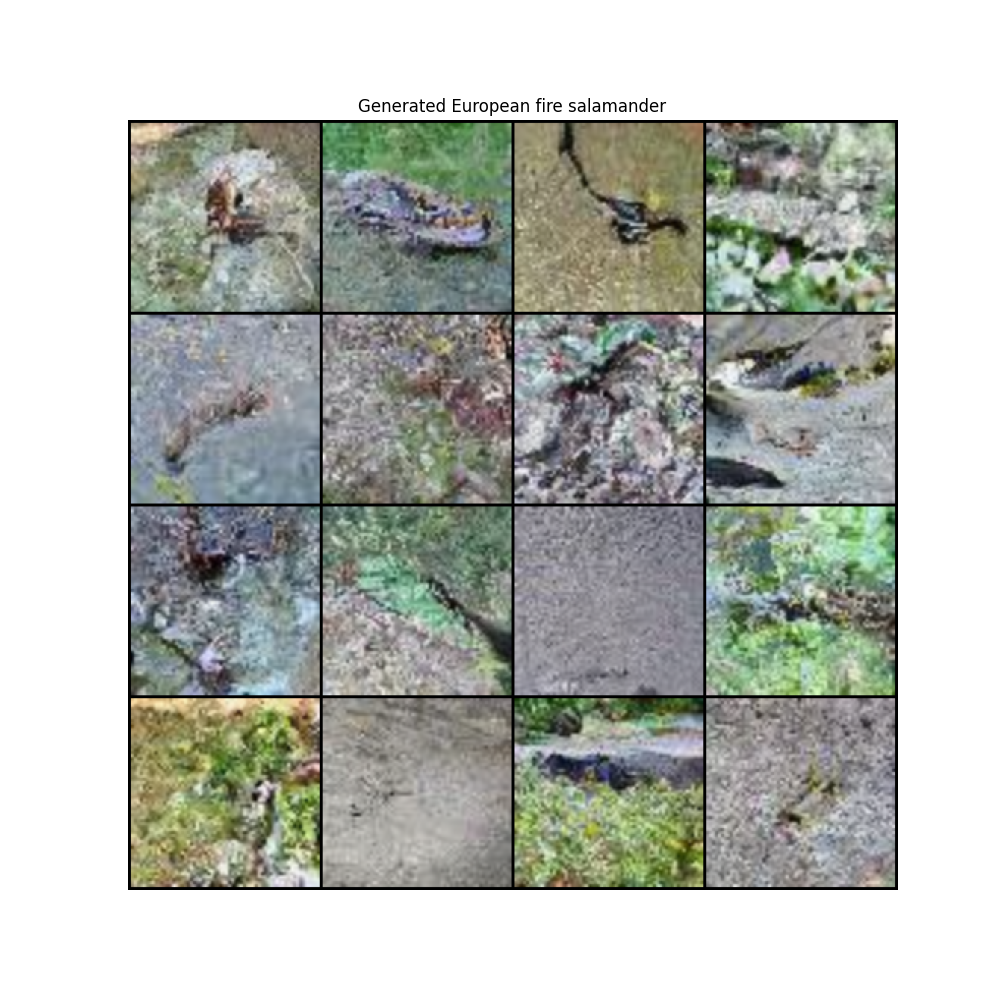
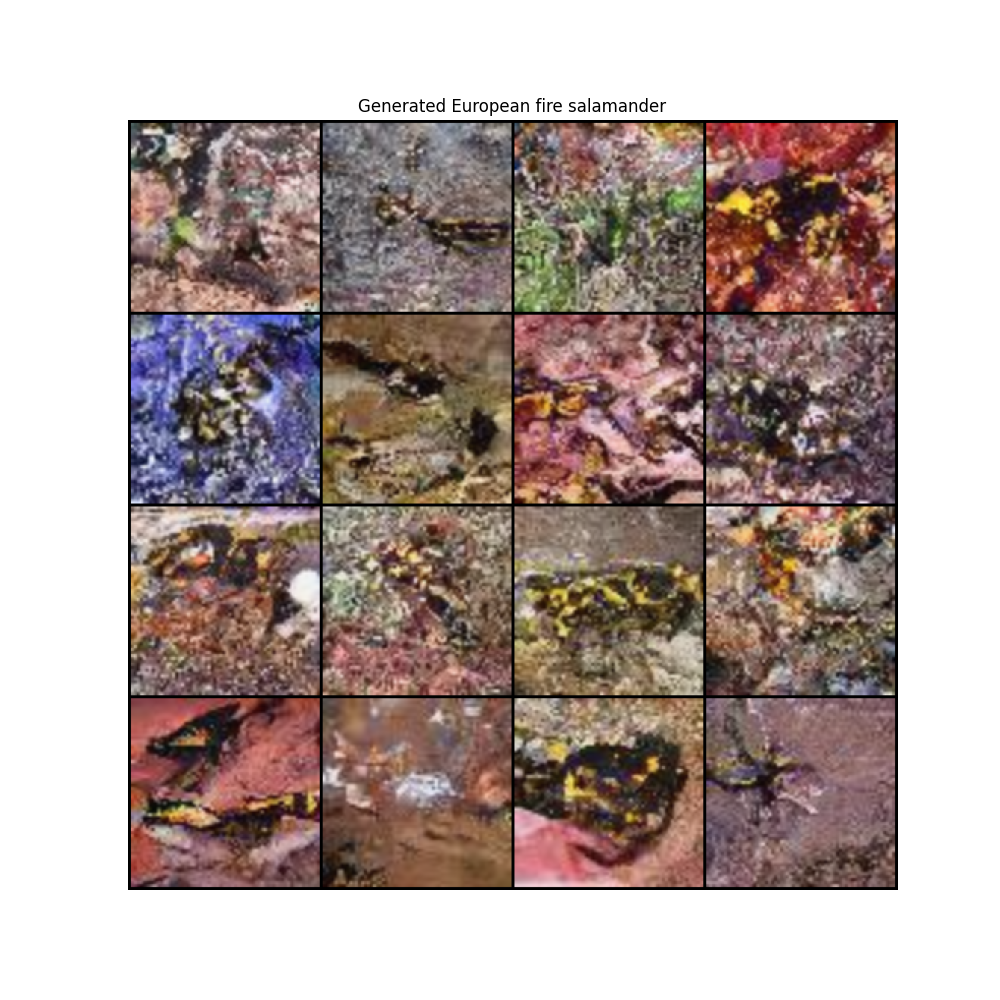
update output

diff --git a/web.py b/web.py
@@ -338,7 +338,7 @@ with gr.Blocks(css=custom_css, title="AI Image Generator") as app:
 
 if __name__ == "__main__":
     # Set your model path accordingly
-    model_path = "output_ImageNet/model_epoch_250.pt"
+    model_path = "output_ImageNet/model_epoch_200.pt"
     os.makedirs("output_visualization", exist_ok=True)
     model = load_model_and_label_map(model_path)
     app.launch()

diff --git a/README.md b/README.md
@@ -1,98 +1,124 @@
-# Diffusion Model
+<h1 align="center">
+Diffusion Model
+</h1>
 
-A text-to-image diffusion model that generates realistic images from text descriptions.
+<p align="center">
+  <img src="output_ImageNet/forward_diffusion.png" alt="Forward Diffusion Process" width="800" style="border-radius: 6px">
+</p>
 
-![Forward Diffusion Process](output_ImageNet/forward_diffusion.png)
+<p align="center">
+  A powerful conditional diffusion model for image generation from text descriptions.
+</p>
+
+<p align="center">
+    <a href="https://www.python.org/">
+    <img src="https://upload.wikimedia.org/wikipedia/commons/c/c3/Python-logo-notext.svg" alt="Python" width="50">
+  </a>
+  <a href="https://pytorch.org/">
+    <img src="https://upload.wikimedia.org/wikipedia/commons/1/10/PyTorch_logo_icon.svg" alt="PyTorch" width="50">
+  </a>
+  <a href="https://www.gradio.app/">
+    <img src="https://www.gradio.app/_app/immutable/assets/gradio.CHB5adID.svg" alt="Gymnasium" width="200">
+  </a>
+</p>
+
+---
 
 ## Overview
 
-This project implements a conditional diffusion model that can generate images based on text prompts. The model is trained on the ImageNet dataset and can create a variety of images from simple text descriptions.
+This project implements a conditional diffusion model that generates images from text descriptions. The model learns to gradually denoise random Gaussian noise into coherent images, guided by text prompts.
 
-## Features
+<p align="center">
+  <img src="output_ImageNet/class_goldfish_generation.gif" alt="Generation Process" width="400" style="border-radius: 12px">
+</p>
 
-- 🖼 **Text-to-Image Generation**: Create images from text descriptions
-- 🔄 **Diffusion Process**: Implementation of forward and reverse diffusion
-- 🌐 **Web Interface**: Interactive UI for generating and visualizing images
-- 📊 **Visualization Tools**: Tools to visualize the diffusion process
+## Key Features
 
-## Examples
+- **Text-to-Image Generation**: Convert textual descriptions into high-quality images
+- **Web Interface**: User-friendly interface for image generation
+- **Conditional Generation**: Fine-grained control over generated content
+- **Interactive Process Visualization**: Watch the denoising process in real-time
+- **Multi-Class Support**: Generate images across various categories
 
-### Image Generation Process
+## Architecture
 
-Watch how the model gradually transforms random noise into a coherent image:
-
-![Goldfish Generation](output_ImageNet/class_goldfish_generation.gif)
-
-### Sample Generations
-
-The model can generate various classes of images:
-
-![Tarantula](output_ImageNet/final_class_tarantula.png)
-
-## Project Structure
+The model consists of several key components:
 
 ```
-├── models/                # Model architecture
-│   ├── modules.py         # Basic building blocks
-│   ├── text_encoder.py    # Text embedding functions
-│   ├── time_encoder.py    # Timestep embedding
-│   └── unet.py            # Conditional UNet architecture
-├── output_ImageNet/       # Generated outputs
-├── diffusion.py           # Core diffusion logic
-├── plot_func.py           # Visualization utilities
-├── preprocess.py          # Data preprocessing
-└── web.py                 # Web interface
+models/
+├── modules.py      # Core building blocks
+├── text_encoder.py # Text embedding generation
+├── time_encoder.py # Timestep encoding
+└── unet.py        # Main U-Net architecture
 ```
 
-## How It Works
-
-1. **Forward Diffusion**: Gradually adds noise to images according to a schedule
-2. **Training**: Model learns to predict and remove noise at each timestep
-3. **Sampling**: Generate new images by starting with random noise and iteratively denoising
+<p align="center">
+  <img src="output_ImageNet/final_class_tarantula.png" alt="Sample Generation" width="450" style="border-radius: 12px">
+</p>
 
 ## Web Interface
 
-Launch the web interface to interact with the model:
+The project includes a sleek web interface for easy interaction with the model:
 
-```bash
-python web.py
-```
+<p align="center">
+  <img src="output_ImageNet/web.png" alt="Web Interface" width="600" style="border-radius: 12px">
+</p>
 
 Features:
-- Enter text descriptions to generate images
-- Control the number of generated samples
-- View the step-by-step generation process
-
-## Technical Details
-
-- **Architecture**: Conditional UNet with timestep and text embeddings
-- **Text Encoding**: Sentence transformers for text embeddings
-- **Training**: Trained on ImageNet dataset with a diffusion process of 1000 timesteps
-- **Visualization**: Matplotlib and custom plotting functions for process visualization
-
-## Requirements
-
-- PyTorch
-- Torchvision
-- Sentence Transformers
-- Gradio
-- Matplotlib
-- NumPy
-- tqdm
+- Text prompt input
+- Multiple image generation
+- Process visualization
+- Real-time generation progress
 
 ## Getting Started
 
-1. Clone the repository
-2. Install dependencies: `pip install -r requirements.txt`
-3. Run the web interface: `python web.py`
-4. Enter text prompts and generate images
+1. **Clone the Repository:**
+   ```bash
+   git clone https://github.com/yourusername/conditional-diffusion.git
+   cd conditional-diffusion
+   ```
 
-## Training
+2. **Install Dependencies:**
+   ```bash
+   pip install torch torchvision sentence-transformers gradio
+   ```
 
-To train the model on your own dataset:
+3. **Launch the Web Interface:**
+   ```bash
+   python web.py
+   ```
 
-```bash
-python diffusion.py
-```
+## Model Components
 
-The training process will save model checkpoints and visualizations to the `output_ImageNet` directory.
+### 1. Diffusion Process
+- Forward diffusion adds noise gradually
+- Reverse diffusion learns to remove noise
+- Conditional generation guided by text embeddings
+
+### 2. Architecture Details
+- UNet backbone with skip connections
+- Text conditioning through cross-attention
+- Time embedding using sinusoidal positions
+- Batch normalization for stable training
+
+### 3. Dataset
+- [Tiny ImageNet](https://paperswithcode.com/dataset/tiny-imagenet), over 1Million images and 200 classes
+
+### 3. Training Process
+- Dataset: ImageNet subset
+- Text embeddings: SentenceTransformer
+- Loss: MSE between predicted and actual noise
+- Optimizer: AdamW with gradient scaling
+
+## Sample Generations
+
+Generate images from text descriptions like:
+- "red apple"
+- "golden retriever"
+- "sunset over mountains"
+
+## License
+
+This project is licensed under the MIT License - see the [LICENSE](LICENSE) file for details.
+
+---
